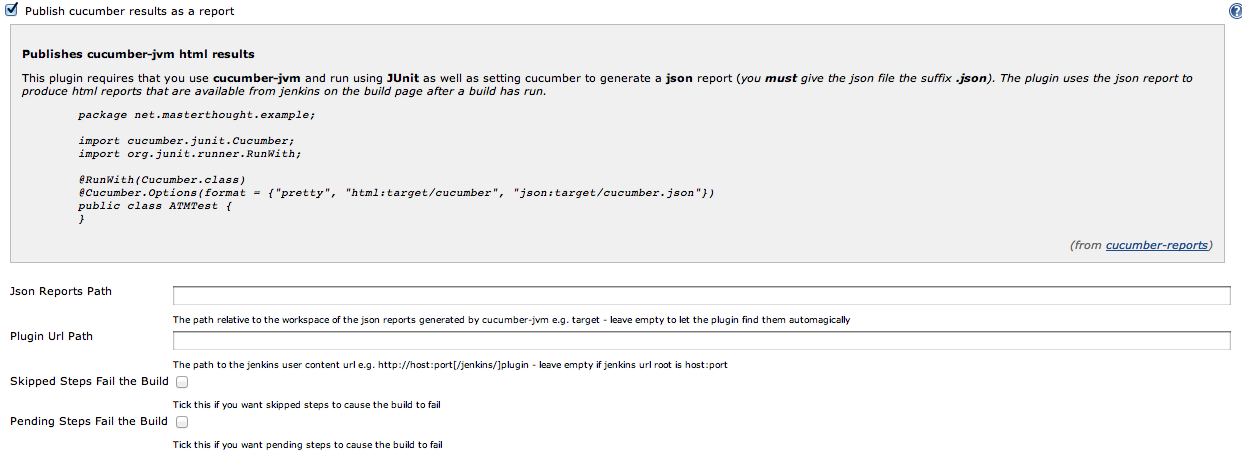
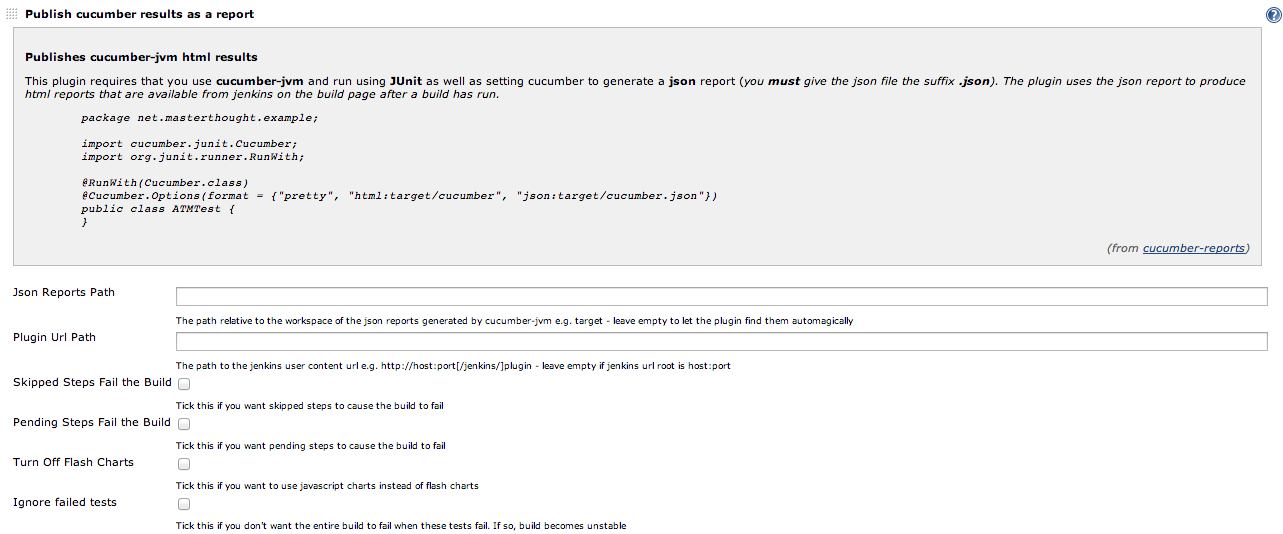
updated documentation

diff --git a/README.md b/README.md
@@ -37,7 +37,7 @@ publish section of the build config:
 If you need more control over the plugin you can click the Advanced button for more options:
 
 ![check the publish cucumber-jvm-reports box]
-(https://github.com/masterthought/jenkins-cucumber-jvm-reports-plugin-java/raw/master/.README/advanced-publish-box.png)
+(https://github.com/choutman/jenkins-cucumber-jvm-reports-plugin-java/raw/master/.README/advanced-publish-box.png)
 
 1. Leave empty for the plugin to automagically find your json files or enter the path to the json reports relative to the workspace if for some reason the automagic doesn't work for you
 2. Leave empty unless your jenkins is installed on a different url to the default hostname:port - see the wiki for further info on this option
@@ -72,10 +72,10 @@ And you can drill down into tag specific reports:
 
 ## Advanced Configuration Options
 
-There are 3 advanced configuration options that can affect the outcome of the build status. Click on the Advanced tab in the configuration screen:
+There are 4 advanced configuration options that can affect the outcome of the build status. Click on the Advanced tab in the configuration screen:
 
 ![Advanced Configuration]
-(https://github.com/masterthought/jenkins-cucumber-jvm-reports-plugin-java/raw/master/.README/advanced_options.png)
+(https://github.com/choutman/jenkins-cucumber-jvm-reports-plugin-java/raw/master/.README/advanced_options.png)
 
 The first setting is Skipped steps fail the build - so if you tick this any steps that are skipped during executions will be marked as failed and will cause the build to fail:
 
@@ -97,9 +97,7 @@ Finally if you don't check either of these options then skipped or not implement
 ![Build Passes on Skipped and Not Implemented]
 (https://github.com/masterthought/jenkins-cucumber-jvm-reports-plugin-java/raw/master/.README/skipped_pending_no_fail.png)
 
-The third setting is Ignore failed tests - so if you tick this and one of the tests fail, the build becomes unstable instead of failed.
-
-There is also an option to turn off the default flash charts - if you check this then you will get javascript charts using graphael javascript charting library.
+The third setting is to turn off the default flash charts - if you check this then you will get javascript charts using graphael javascript charting library.
 
 Javascript Charts on Feature Overview:
 
@@ -110,6 +108,8 @@ Javascript Charts on Tag Overview:
 
 ![JS Feature Overview]
 (https://github.com/masterthought/jenkins-cucumber-jvm-reports-plugin-java/raw/master/.README/js-tag-overview.png)
+
+The fourth setting is Ignore failed tests - so if you tick this and one of the tests fail, the build becomes unstable instead of failed.
 
 
 Make sure you have configured cucumber-jvm to run with the JUnit runner and to generate a json report: (note - you can add other formatters in if you like e.g. pretty - but only the json formatter is required for the reports to work)
